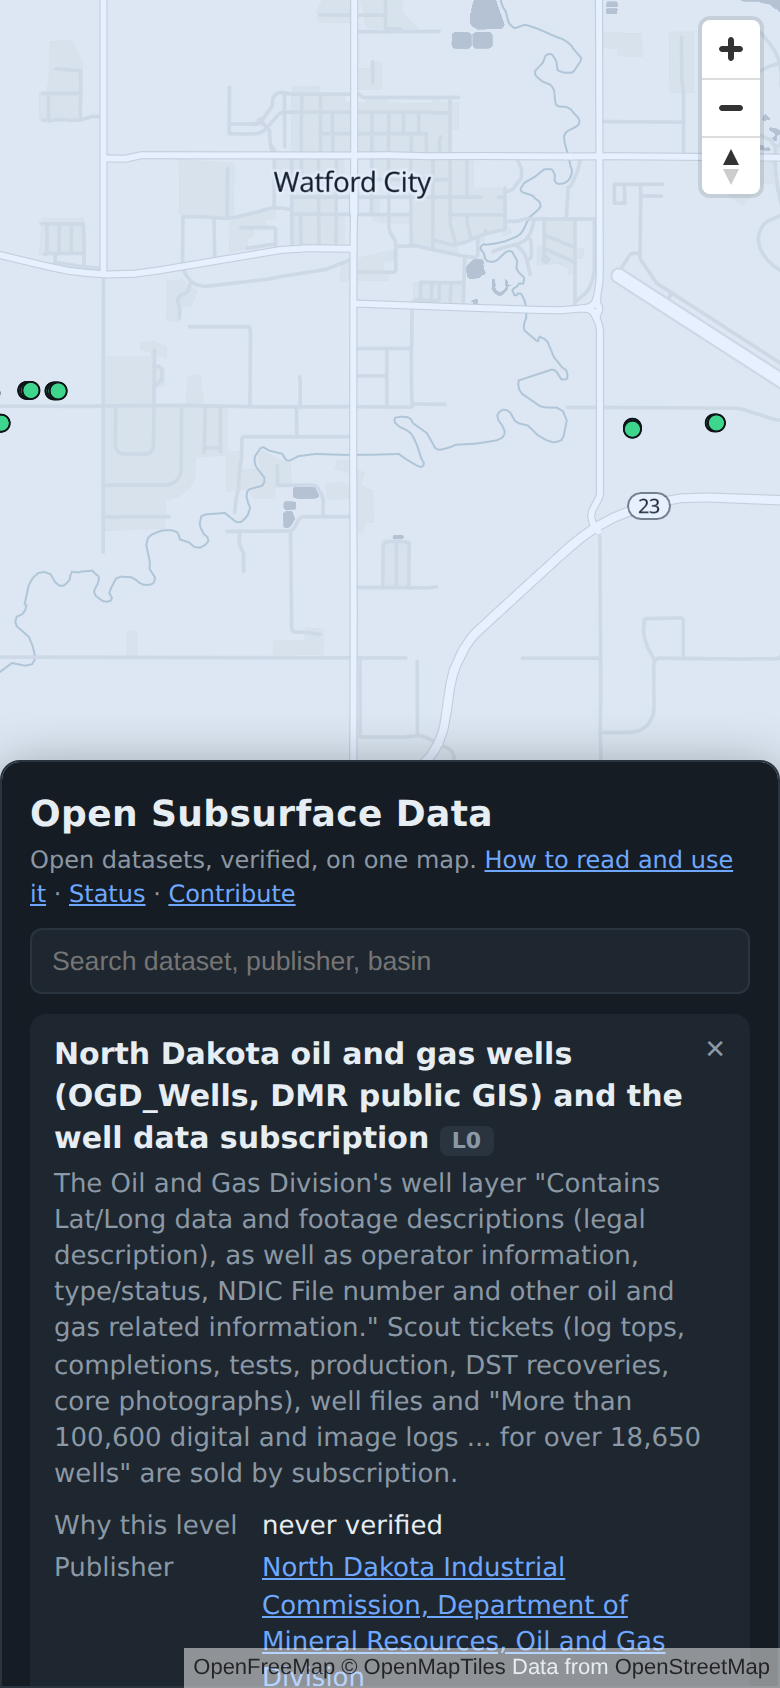
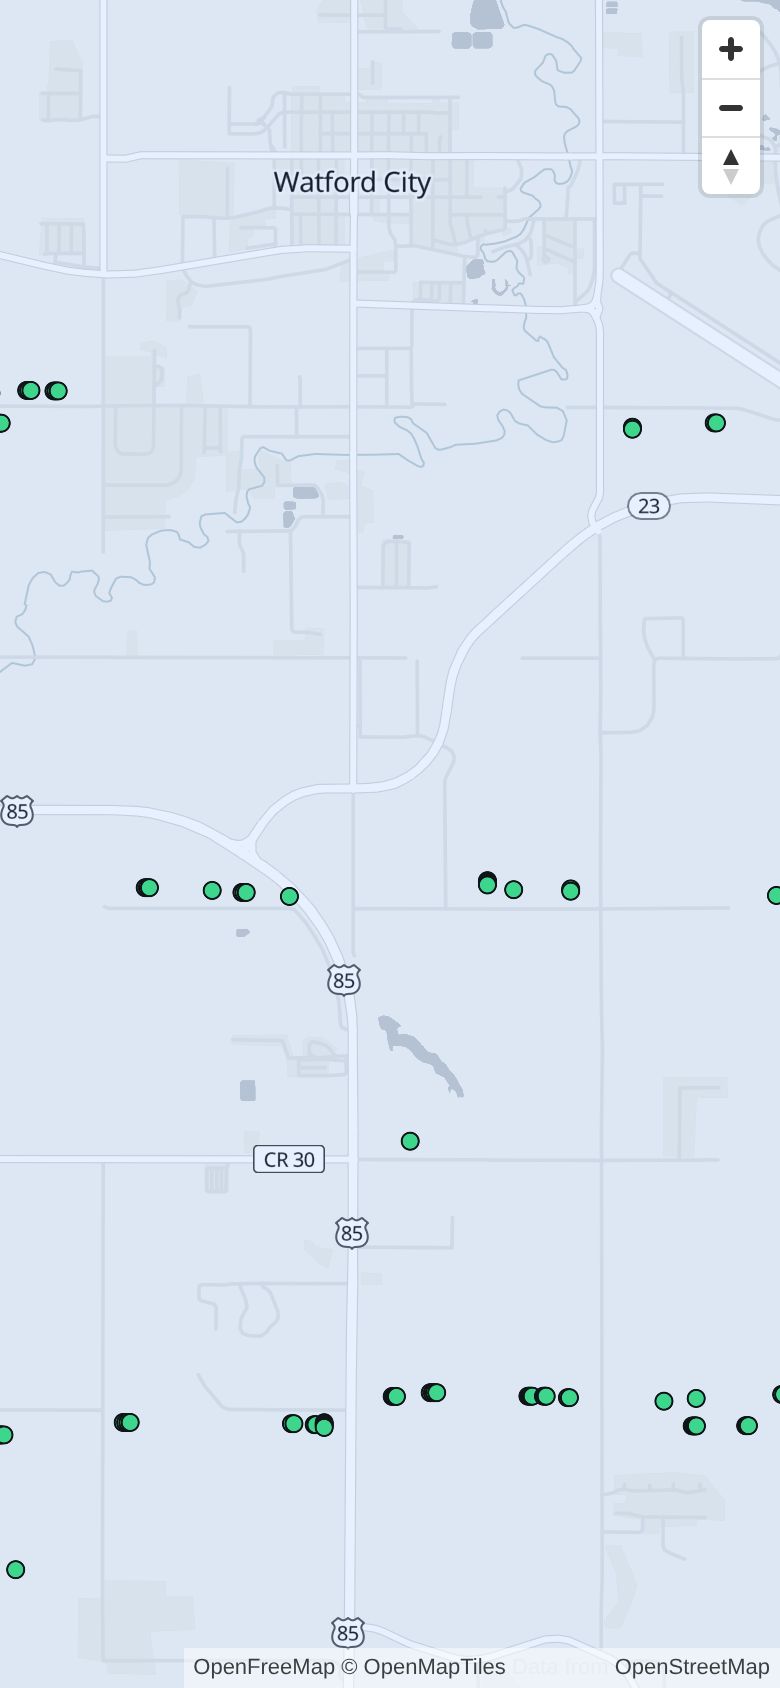
E32 design 5: the wells shot shows the whole viewport as map
The first shot was byte-identical to the panel shot (both had the record selected). Hide the sheet
for the wells shot; the panel shot is unchanged.

diff --git a/docs/program/evidence/e32/pages.md b/docs/program/evidence/e32/pages.md
@@ -52,11 +52,13 @@ their `item` links, with no OSD code.
 `node docs/program/evidence/e32/shots.mjs docs/program/evidence/e32` after `make build`:
 
 - `nd-wells-phone.png`: Watford City, ND at zoom 12; North Dakota's wells drawn from the tiles at
-  their own positions (80 rendered in the viewport). The record is selected in the hash
-  (`#sel=nd-dmr/wells&map=12/47.765/-103.28`): headless Chromium at phone width leaves the
-  basemap unpainted until a record is selected, the body colour showing through the canvas; desktop
-  width paints it either way, and every earlier phone shot (E15, E21, E27) selects a record too.
-  Site behaviour, not changed here (`site/**` is not this lane's).
+  their own positions (well pads along the section lines; 80 rendered in the viewport). The bottom
+  sheet is hidden for this shot (`visibility: hidden`) so the whole viewport is map. The page opens
+  with the record selected (`#sel=nd-dmr/wells&map=12/47.765/-103.28`): headless Chromium at
+  phone width leaves the basemap unpainted while the sheet shows the dataset list (on load, and
+  again after the panel is closed), the body colour showing through the canvas; desktop width
+  paints it either way, and every earlier phone shot (E15, E21, E27) selects a record. Not checked
+  on a real phone; `site/**` is not this lane's (inbox e32.md note 7).
 - `nd-dataset-panel-phone.png`: after clicking well `nd-dmr/wells#23634` (HEGG 11-29SH), the
   dataset panel as it is today: the record's title, level, description, why this level and
   publisher; hash `#sel=nd-dmr/wells&map=12.00/47.7650/-103.2800`; no console errors. The level
